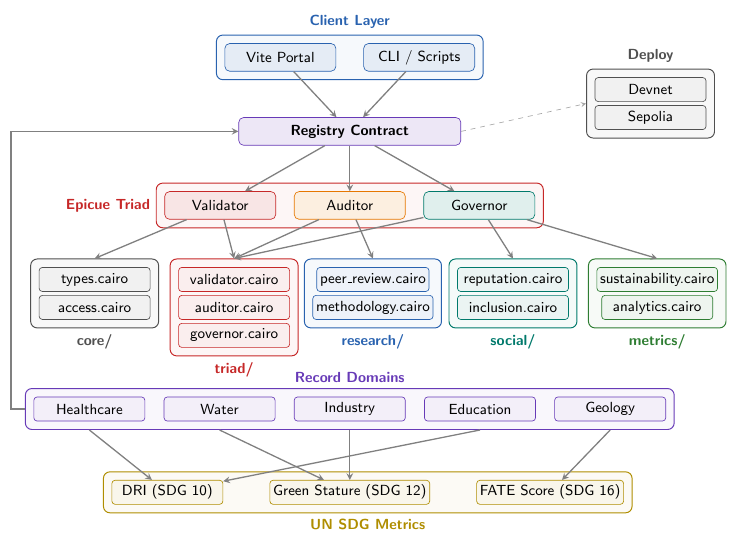
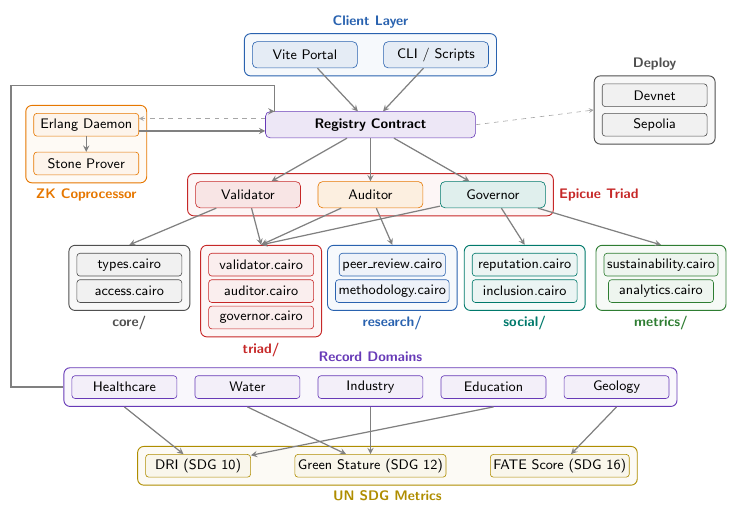
Add Erlang Coprocessor to the diagram.

diff --git a/docs/graphical-abstract.tex b/docs/graphical-abstract.tex
@@ -42,7 +42,7 @@
 \node[layer=clOrange] (auditor)   at ( 0,  -3.2) {Auditor};
 \node[layer=clTeal]   (governor)  at ( 2.8,-3.2) {Governor};
 \begin{pgfonlayer}{background}
-  \node[grpbox=clRed, fit=(validator)(auditor)(governor), label={[lbl,text=clRed]left:Epicue Triad}] (triad) {};
+  \node[grpbox=clRed, fit=(validator)(auditor)(governor), label={[lbl,text=clRed]right:Epicue Triad}] (triad) {};
 \end{pgfonlayer}
 
 %% ── Row 3 ──────────────────────────────────────────────────────────────────
@@ -95,9 +95,16 @@
   \node[grpbox=clGold, fit=(sdgdri)(sdggsi)(sdgfate), label={[lbl,text=clGold]below:UN SDG Metrics}] (sdgs) {};
 \end{pgfonlayer}
 
+%% ── ZK Coprocessor ─────────────────────────────────────────────────────────
+\node[mod=clOrange] (daemon) at (-6.5,-1.6) {Erlang Daemon};
+\node[mod=clOrange, below=10pt of daemon] (prover) {Stone Prover};
+\begin{pgfonlayer}{background}
+  \node[grpbox=clOrange, fit=(daemon)(prover), label={[lbl,text=clOrange]below:ZK Coprocessor}] (coproc) {};
+\end{pgfonlayer}
+
 %% ── Deployment ─────────────────────────────────────────────────────────────
-\node[mod=clGray] (sepolia) at (6.5,-1.3) {Sepolia};
-\node[mod=clGray, above=2pt of sepolia] (devnet) {Devnet};
+\node[mod=clGray] (sepolia) at (6.5,-1.6) {Sepolia};
+\node[mod=clGray, above=4pt of sepolia] (devnet) {Devnet};
 \begin{pgfonlayer}{background}
   \node[grpbox=clGray, fit=(devnet)(sepolia), label={[lbl,text=clGray]above:Deploy}] (deploy) {};
 \end{pgfonlayer}
@@ -116,13 +123,17 @@
 \draw[arr] (governor) -- (metmod.north);
 \draw[arr] (governor) -- (triadmod.north);
 
-\draw[arr] (domains.west) -- ++(-0.3,0) |- (registry.west);
+\draw[arr] (domains.west) -- ++(-1.2,0) |- (-2.2,-0.7) |- ([xshift=6pt]registry.north west);
 \draw[arr] (domains.south -| dhc) -- (sdgdri);
 \draw[arr] (domains.south -| dedu) -- (sdgdri);
 \draw[arr] (domains.south -| dwat) -- (sdggsi);
 \draw[arr] (domains.south -| dind) -- (sdggsi);
 \draw[arr] (domains.south -| dgeo) -- (sdgfate);
 \draw[darr] (registry.east) -- (deploy.west);
+
+\draw[darr] ([yshift=4pt]registry.west) -- ([yshift=4pt]daemon.east);
+\draw[arr] ([yshift=-4pt]daemon.east) -- ([yshift=-4pt]registry.west);
+\draw[arr] (daemon) -- (prover);
 
 \end{tikzpicture}
 \end{adjustbox}